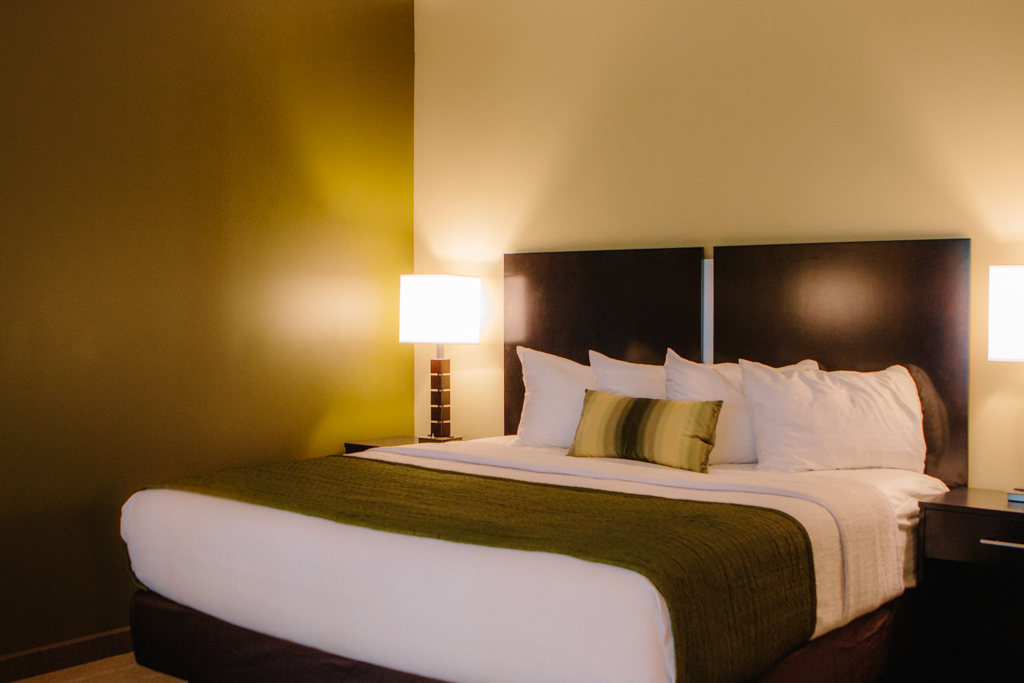
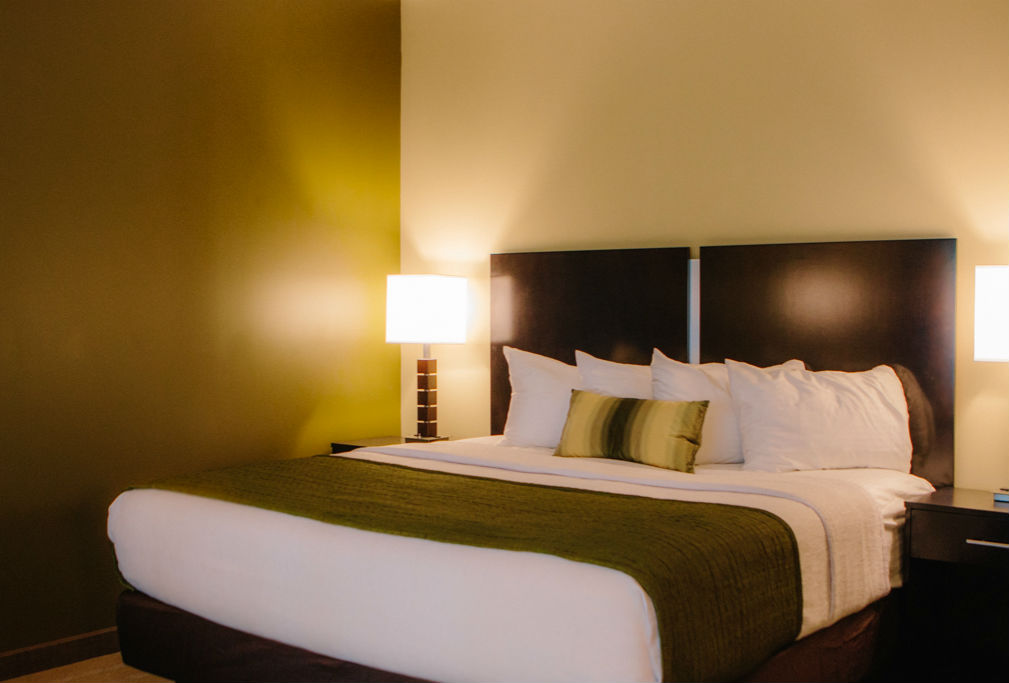
Hotel page updates: remove queen suite, change queen room image, update booking link, make room images same size.

diff --git a/dist/hotel.html b/dist/hotel.html
@@ -1,1 +1,1 @@
-<!DOCTYPE html><html lang=en><meta charset=utf-8><title>Hotel | Franciscan Square</title><meta content="width=device-width,initial-scale=1"name=viewport><link href=http://franciscansquare.com/hotel rel=canonical><link href=favicon.ico rel="shortcut icon"><style>.center-logo{margin-top:-53px}.center-logo img{width:280px;display:block;margin:0 auto;z-index:2}.nav-cta{background-color:#1f2a44}.nav-cta:hover{background-color:#2f4067}.block-center{display:block;margin:0 auto}.list-styled{padding:16px}.list-styled li{list-style-type:square;margin-bottom:8px}.li-divider{border-top:1px solid;width:28px;margin:0 auto;height:16px}@media screen and (max-width:600px){.valign-wrapper{flex-direction:column}.valign-wrapper .col{margin-bottom:16px}}@media screen and (max-width:600px){.valign-wrapper.banner{flex-direction:row}}.container{max-width:2000px}@media only screen and (min-width:993px){.container{width:85%}}@media screen and (max-width:600px){.order-1{order:1}}@media screen and (max-width:600px){.order-2{order:2}}.input-field label{left:0}body{background-color:#fff;display:flex;min-height:100vh;flex-direction:column;-webkit-font-smoothing:antialiased;-moz-osx-font-smoothing:grayscale}main{flex:1 0 auto;min-height:100vh}header{height:122px;margin-bottom:-48px}nav{height:64px;box-shadow:none}nav .brand-logo img{height:64px;margin:16px}nav .button-collapse i{color:rgba(0,0,0,.87)}nav .page-title{line-height:64px;font-size:40px;font-weight:300;margin-left:25px}nav .button-collapse{margin-left:16px}nav .grid-btn,nav .list-btn{cursor:pointer;margin-right:8px}@media screen and (max-width:600px){nav .grid-btn,nav .list-btn{display:none!important}}nav .more-btn{cursor:pointer;margin-right:8px}nav ul li a{color:rgba(0,0,0,.87);font-size:18px}nav ul li a.logout:hover{background-color:transparent}nav .dropdown-content li:hover{background-color:transparent}.side-nav .logo{height:128px}.side-nav .logo a{padding:16px 16px 0 16px;width:100%}.side-nav .logo a:hover{background-color:#fff}.side-nav .logo img{width:100%}.side-nav li a{font-size:18px}.side-nav li a i{height:48px;line-height:48px;float:left;margin-right:8px}.hero-section{background-image:url(../img/hotel-exterior.jpg);background-size:cover;background-attachment:fixed;height:calc(90vh - 64px)}.hero-section .hero-overlay{background:-moz-linear-gradient(top,#fff 0,rgba(255,255,255,0) 100%);background:-webkit-linear-gradient(top,#fff 0,rgba(255,255,255,0) 100%);background:linear-gradient(to bottom,#fff 0,rgba(255,255,255,0) 100%);filter:progid:DXImageTransform.Microsoft.gradient( startColorstr='#ffffff', endColorstr='#00ffffff', GradientType=0 );height:39%}.hero-section h1{background-color:rgba(255,255,255,.75);padding:50px 0}@media screen and (max-width:600px){.hero-section h1{font-size:28px;position:absolute;top:calc(50vh - 30px);width:100%}}#hotel .hero-section{background-image:url(../img/hotel-ent.jpg)}</style><body id=hotel><nav class="black-text white"><div class=nav-wrapper><a href=/ class="brand-logo hide-on-med-and-up"><img src=img/FrSqLogoH.jpg></a><a href=# class=button-collapse data-activates=mobile-demo><i class=material-icons>menu</i></a><ul class="black-text hide-on-med-and-down right"><li><a href=https://www.bestwestern.com/en_US/book/hotels-in-steubenville/best-western-plus-the-inn-at-franciscan-square/propertyCode.36171.html class="btn nav-cta waves-effect waves-light"target=_blank>Book</a><li><a href=/ >Home</a><li><a href=/hotel>Hotel</a><li><a href=/about>About</a><li><a href=/local>Local</a></ul><ul class=side-nav id=mobile-demo><li class=logo><a href=/ id=logo-container><img src=img/FrSqLogoH.jpg class=responsive-img></a><li><a href=/ >Home</a><li><a href=/hotel>Hotel</a><li><a href=/about>About</a><li><a href=/local>Local</a></ul></div></nav><a href=/ class="center-logo hide-on-small-only"><img src=img/FrSqLogoH.jpg></a><main><div class=hero-section><div class=hero-overlay></div><h1 class="center light">The Inn at Franciscan Square</h1></div><div class="section hide-on-med-and-down sub-menu"><ul class=table-of-contents><li><a href=#suites class=slow-nav>Suites</a><li><a href=#rooms class=slow-nav>Rooms</a><li><a href=#amenities class=slow-nav>Amenities</a></ul></div><div class="section scrollspy"id=suites><div class=container><h2 class="center light">Suites</h2><div class=row><div class="col s12 m6"><img src=img/king-suite-1.jpg class="responsive-img materialboxed"><h5 class=center>VIP Suite</h5></div><div class="col s12 m6"><img src=img/queen-double-suite.jpg class="responsive-img materialboxed"><h5 class=center>Queen Suite</h5></div></div></div><div class=row><div class="col s12 m8 offset-m2"><h3 class="center light">VIP Suite Includes</h3><ul class="center light"><li class=li-divider><li class=flow-text>All Room Amenities<li class=flow-text>Two 40in LED Televisions<li class=flow-text>Sofa Bed<li class=flow-text>Wet Bar</ul></div></div></div><div class="section scrollspy"id=rooms><div class=container><h2 class="center light">Rooms</h2><div class=row><div class="col s12 m6"><img src=img/king.jpg class="responsive-img materialboxed"><h5 class=center>One King</h5></div><div class="col s12 m6"><img src=img/queen-single.jpg class="responsive-img materialboxed"><h5 class=center>Two Queen</h5></div></div></div><div class=row><div class="col s12 m8 offset-m2"><h3 class="center light">All Rooms Include</h3><ul class="center light"><li class=li-divider><li class=flow-text>Refrigerator<li class=flow-text>Microwave<li class=flow-text>Coffee Maker<li class=flow-text>Hair Dryer<li class=flow-text>Iron and Ironing Board<li class=flow-text>43in LED Television<li class=flow-text>High Speed WiFi</ul></div></div></div><div class="section scrollspy banner fus-dark-blue valign-wrapper white-text"id=book-online><a href=https://www.bestwestern.com/en_US/book/hotels-in-steubenville/best-western-plus-the-inn-at-franciscan-square/propertyCode.36171.html class=block-center target=_blank><buton class="btn btn-large valign">Book Online</buton></a></div><div class="section scrollspy"id=amenities><div class=container><h2 class="center light">Amenities</h2><div class=row><div class="col s12 m8 offset-m2"><img src=img/fitness.jpg class="responsive-img materialboxed"><h5 class=center>Fitness Center</h5></div></div><div class=row><div class="col s12 m8 offset-m2"><img src=img/meeting-room.jpg class="responsive-img materialboxed"><h5 class=center>8 and 12 Person Meeting Rooms</h5></div></div></div></div><div class=section id=additional-amenities><div class=row><div class="col s12 m8 offset-m2"><h3 class="center light">Additional Amenities</h3><ul class="center light"><li class=li-divider><li class=flow-text>Business Center<li class=flow-text>Outdoor Lounge and Fire Pit<li class=flow-text>Indoor Pool<li class=flow-text>7 Accessible Rooms (5 Queen, 2 King)<li class=flow-text>24-Hour Market<li class=flow-text>24-Hour Guest Laundry<li class=flow-text>High-speed WiFi<li class=flow-text>Free parking<li class=flow-text>Complimentary Breakfast<li class=flow-text>Electric Car Charging Stations</ul></div></div></div><div class=scroll-to-top><i class="material-icons tooltipped"data-delay=50 data-position=right data-tooltip="To Top">arrow_back</i></div></main><footer class=page-footer><div class=container><div class=row><div class="center col m6 s12"><a href=http://www.franciscan.edu/ target=_blank title="Franciscan University of Steubenville"><img src=img/franciscan-logo.png class=responsive-img></a></div><div class="col s12 m6"><h5 class="light white-text">Franciscan Square</h5><address><p class=white-text translate=no typeof=schema:PostalAddress><span property=schema:name>Franciscan Square</span><br><span property=schema:streetAddress>200 Franciscan Square</span><br><span property=schema:addressLocality>Steubenville</span>, <abbr property=schema:addressRegion title=Ohio>OH</abbr> <span property=schema:postalCode>43952</span> <abbr property=schema:addressCountry>USA</abbr><br><a href=tel:+17402820901 class=white-text property=telephone>740.282.0901</a><br></address><div class=social><a href=https://www.facebook.com/franciscansquare/ target=_blank><i class="white-text icon-facebook"></i> </a><a href=https://twitter.com/franciscansqr target=_blank><i class="white-text icon-twitter"></i></a></div></div></div></div><div class=footer-copyright><div class=container>© <span id=copyright-date>2016</span> Franciscan University of Steubenville</div></div></footer><link href="https://fonts.googleapis.com/icon?family=Material+Icons"rel=stylesheet><link href=css/style.min.css rel=stylesheet><script src=https://ajax.googleapis.com/ajax/libs/jquery/2.2.2/jquery.min.js></script><script src=https://cdnjs.cloudflare.com/ajax/libs/materialize/0.97.6/js/materialize.min.js></script><script src=https://cdnjs.cloudflare.com/ajax/libs/babel-core/5.6.15/browser-polyfill.min.js></script><script src=js/app.min.js></script><script>!function(e,t,a,n,c,o,s){e.GoogleAnalyticsObject=c,e[c]=e[c]||function(){(e[c].q=e[c].q||[]).push(arguments)},e[c].l=1*new Date,o=t.createElement(a),s=t.getElementsByTagName(a)[0],o.async=1,o.src=n,s.parentNode.insertBefore(o,s)}(window,document,"script","https://www.google-analytics.com/analytics.js","ga"),ga("create","UA-5819863-13","auto"),ga("send","pageview")</script>
+<!DOCTYPE html><html lang=en><meta charset=utf-8><title>Hotel | Franciscan Square</title><meta content="width=device-width,initial-scale=1"name=viewport><link href=http://franciscansquare.com/hotel rel=canonical><link href=favicon.ico rel="shortcut icon"><style>.center-logo{margin-top:-53px}.center-logo img{width:280px;display:block;margin:0 auto;z-index:2}.nav-cta{background-color:#1f2a44}.nav-cta:hover{background-color:#2f4067}.block-center{display:block;margin:0 auto}.list-styled{padding:16px}.list-styled li{list-style-type:square;margin-bottom:8px}.li-divider{border-top:1px solid;width:28px;margin:0 auto;height:16px}@media screen and (max-width:600px){.valign-wrapper{flex-direction:column}.valign-wrapper .col{margin-bottom:16px}}@media screen and (max-width:600px){.valign-wrapper.banner{flex-direction:row}}.container{max-width:2000px}@media only screen and (min-width:993px){.container{width:85%}}@media screen and (max-width:600px){.order-1{order:1}}@media screen and (max-width:600px){.order-2{order:2}}.input-field label{left:0}body{background-color:#fff;display:flex;min-height:100vh;flex-direction:column;-webkit-font-smoothing:antialiased;-moz-osx-font-smoothing:grayscale}main{flex:1 0 auto;min-height:100vh}header{height:122px;margin-bottom:-48px}nav{height:64px;box-shadow:none}nav .brand-logo img{height:64px;margin:16px}nav .button-collapse i{color:rgba(0,0,0,.87)}nav .page-title{line-height:64px;font-size:40px;font-weight:300;margin-left:25px}nav .button-collapse{margin-left:16px}nav .grid-btn,nav .list-btn{cursor:pointer;margin-right:8px}@media screen and (max-width:600px){nav .grid-btn,nav .list-btn{display:none!important}}nav .more-btn{cursor:pointer;margin-right:8px}nav ul li a{color:rgba(0,0,0,.87);font-size:18px}nav ul li a.logout:hover{background-color:transparent}nav .dropdown-content li:hover{background-color:transparent}.side-nav .logo{height:128px}.side-nav .logo a{padding:16px 16px 0 16px;width:100%}.side-nav .logo a:hover{background-color:#fff}.side-nav .logo img{width:100%}.side-nav li a{font-size:18px}.side-nav li a i{height:48px;line-height:48px;float:left;margin-right:8px}.hero-section{background-image:url(../img/hotel-exterior.jpg);background-size:cover;background-attachment:fixed;height:calc(90vh - 64px)}.hero-section .hero-overlay{background:-moz-linear-gradient(top,#fff 0,rgba(255,255,255,0) 100%);background:-webkit-linear-gradient(top,#fff 0,rgba(255,255,255,0) 100%);background:linear-gradient(to bottom,#fff 0,rgba(255,255,255,0) 100%);filter:progid:DXImageTransform.Microsoft.gradient( startColorstr='#ffffff', endColorstr='#00ffffff', GradientType=0 );height:39%}.hero-section h1{background-color:rgba(255,255,255,.75);padding:50px 0}@media screen and (max-width:600px){.hero-section h1{font-size:28px;position:absolute;top:calc(50vh - 30px);width:100%}}#hotel .hero-section{background-image:url(../img/hotel-ent.jpg)}</style><body id=hotel><nav class="black-text white"><div class=nav-wrapper><a href=/ class="brand-logo hide-on-med-and-up"><img src=img/FrSqLogoH.jpg></a><a href=# class=button-collapse data-activates=mobile-demo><i class=material-icons>menu</i></a><ul class="black-text hide-on-med-and-down right"><li><a href="https://www.bestwestern.com/en_US/book/hotel-details.36171.html?ssob=IN3617198G&rateCode=3R&cid=IN3617198G:3rdparty:franciscan:accommodations"class="btn nav-cta waves-effect waves-light"target=_blank title="Book Online with Special Franciscan University Rate">Book</a><li><a href=/ >Home</a><li><a href=/hotel>Hotel</a><li><a href=/about>About</a><li><a href=/local>Local</a></ul><ul class=side-nav id=mobile-demo><li class=logo><a href=/ id=logo-container><img src=img/FrSqLogoH.jpg class=responsive-img></a><li><a href=/ >Home</a><li><a href=/hotel>Hotel</a><li><a href=/about>About</a><li><a href=/local>Local</a></ul></div></nav><a href=/ class="center-logo hide-on-small-only"><img src=img/FrSqLogoH.jpg></a><main><div class=hero-section><div class=hero-overlay></div><h1 class="center light">The Inn at Franciscan Square</h1></div><div class="section hide-on-med-and-down sub-menu"><ul class=table-of-contents><li><a href=#suites class=slow-nav>Suites</a><li><a href=#rooms class=slow-nav>Rooms</a><li><a href=#amenities class=slow-nav>Amenities</a></ul></div><div class="section scrollspy"id=suites><div class=container><h2 class="center light">Suites</h2><div class=row><div class="col s12 m8 offset-m2"><img src=img/king-suite-1.jpg class="responsive-img materialboxed"><h5 class=center>VIP Suite</h5></div></div></div><div class=row><div class="col s12 m8 offset-m2"><h3 class="center light">VIP Suite Includes</h3><ul class="center light"><li class=li-divider><li class=flow-text>All Room Amenities<li class=flow-text>Two 40in LED Televisions<li class=flow-text>Sofa<li class=flow-text>Wet Bar</ul></div></div></div><div class="section scrollspy"id=rooms><div class=container><h2 class="center light">Rooms</h2><div class=row><div class="col s12 m6"><img src=img/king.jpg class="responsive-img materialboxed"><h5 class=center>One King</h5></div><div class="col s12 m6"><img src=img/queen-double-suite.jpg class="responsive-img materialboxed"><h5 class=center>Two Queen</h5></div></div></div><div class=row><div class="col s12 m8 offset-m2"><h3 class="center light">All Rooms Include</h3><ul class="center light"><li class=li-divider><li class=flow-text>Refrigerator<li class=flow-text>Microwave<li class=flow-text>Coffee Maker<li class=flow-text>Hair Dryer<li class=flow-text>Iron and Ironing Board<li class=flow-text>43in LED Television<li class=flow-text>High Speed WiFi</ul></div></div></div><div class="section scrollspy banner fus-dark-blue valign-wrapper white-text"id=book-online><div class="center block-center valign"><h3 class=light style=margin-top:0>Special Rate</h3><a href="https://www.bestwestern.com/en_US/book/hotel-details.36171.html?ssob=IN3617198G&rateCode=3R&cid=IN3617198G:3rdparty:franciscan:accommodations"class=block-center target=_blank title="Book Online with Special Franciscan University Rate"><buton class="btn btn-large">Book Online</buton></a></div></div><div class="section scrollspy"id=amenities><div class=container><h2 class="center light">Amenities</h2><div class=row><div class="col s12 m8 offset-m2"><img src=img/fitness.jpg class="responsive-img materialboxed"><h5 class=center>Fitness Center</h5></div></div><div class=row><div class="col s12 m8 offset-m2"><img src=img/meeting-room.jpg class="responsive-img materialboxed"><h5 class=center>8 and 12 Person Meeting Rooms</h5></div></div></div></div><div class=section id=additional-amenities><div class=row><div class="col s12 m8 offset-m2"><h3 class="center light">Additional Amenities</h3><ul class="center light"><li class=li-divider><li class=flow-text>Business Center<li class=flow-text>Outdoor Lounge and Fire Pit<li class=flow-text>Indoor Pool<li class=flow-text>7 Accessible Rooms (5 Queen, 2 King)<li class=flow-text>24-Hour Market<li class=flow-text>24-Hour Guest Laundry<li class=flow-text>High-speed WiFi<li class=flow-text>Free parking<li class=flow-text>Complimentary Breakfast<li class=flow-text>Electric Car Charging Stations</ul></div></div></div><div class=scroll-to-top><i class="material-icons tooltipped"data-delay=50 data-position=right data-tooltip="To Top">arrow_back</i></div></main><footer class=page-footer><div class=container><div class=row><div class="center col m6 s12"><a href=http://www.franciscan.edu/ target=_blank title="Franciscan University of Steubenville"><img src=img/franciscan-logo.png class=responsive-img></a></div><div class="col s12 m6"><h5 class="light white-text">Franciscan Square</h5><address><p class=white-text translate=no typeof=schema:PostalAddress><span property=schema:name>Franciscan Square</span><br><span property=schema:streetAddress>200 Franciscan Square</span><br><span property=schema:addressLocality>Steubenville</span>, <abbr property=schema:addressRegion title=Ohio>OH</abbr> <span property=schema:postalCode>43952</span> <abbr property=schema:addressCountry>USA</abbr><br><a href=tel:+17402820901 class=white-text property=telephone>740.282.0901</a><br></address><div class=social><a href=https://www.facebook.com/franciscansquare/ target=_blank><i class="white-text icon-facebook"></i> </a><a href=https://twitter.com/franciscansqr target=_blank><i class="white-text icon-twitter"></i></a></div></div></div></div><div class=footer-copyright><div class=container>© <span id=copyright-date>2016</span> Franciscan University of Steubenville</div></div></footer><link href="https://fonts.googleapis.com/icon?family=Material+Icons"rel=stylesheet><link href=css/style.min.css rel=stylesheet><script src=https://ajax.googleapis.com/ajax/libs/jquery/2.2.2/jquery.min.js></script><script src=https://cdnjs.cloudflare.com/ajax/libs/materialize/0.97.6/js/materialize.min.js></script><script src=https://cdnjs.cloudflare.com/ajax/libs/babel-core/5.6.15/browser-polyfill.min.js></script><script src=js/app.min.js></script><script>!function(e,t,a,n,c,o,s){e.GoogleAnalyticsObject=c,e[c]=e[c]||function(){(e[c].q=e[c].q||[]).push(arguments)},e[c].l=1*new Date,o=t.createElement(a),s=t.getElementsByTagName(a)[0],o.async=1,o.src=n,s.parentNode.insertBefore(o,s)}(window,document,"script","https://www.google-analytics.com/analytics.js","ga"),ga("create","UA-5819863-13","auto"),ga("send","pageview")</script>

diff --git a/app/hotel.html b/app/hotel.html
@@ -166,7 +166,7 @@
        <a href="/" class="brand-logo hide-on-med-and-up"><img src="img/FrSqLogoH.jpg" /></a>
        <a href="#" data-activates="mobile-demo" class="button-collapse"><i class="material-icons">menu</i></a>
        <ul class="right hide-on-med-and-down black-text">
-         <li><a href="https://www.bestwestern.com/en_US/book/hotels-in-steubenville/best-western-plus-the-inn-at-franciscan-square/propertyCode.36171.html" target="_blank" class="btn nav-cta waves-effect waves-light">Book</a></li>
+         <li><a href="https://www.bestwestern.com/en_US/book/hotel-details.36171.html?ssob=IN3617198G&rateCode=3R&cid=IN3617198G:3rdparty:franciscan:accommodations" target="_blank" title="Book Online with Special Franciscan University Rate" class="btn nav-cta waves-effect waves-light">Book</a></li>
          <li><a href="/">Home</a></li>
          <li><a href="/hotel">Hotel</a></li>
          <!-- <li><a href="/dining">Dining</a></li>
@@ -206,16 +206,10 @@
         <div class="container">
           <h2 class="center light">Suites</h2>
           <div class="row">
-            <div class="col s12 m6">
+            <div class="col s12 m8 offset-m2">
               <img class="responsive-img materialboxed" src="img/king-suite-1.jpg" />
               <h5 class="center">
                 VIP Suite
-              </h5>
-            </div>
-            <div class="col s12 m6">
-              <img class="responsive-img materialboxed" src="img/queen-double-suite.jpg" />
-              <h5 class="center">
-                Queen Suite
               </h5>
             </div>
           </div>
@@ -229,7 +223,7 @@
               <li class="li-divider"></li>
               <li class="flow-text">All Room Amenities</li>
               <li class="flow-text">Two 40in LED Televisions</li>
-              <li class="flow-text">Sofa Bed</li>
+              <li class="flow-text">Sofa</li>
               <li class="flow-text">Wet Bar</li>
             </ul>
           </div>
@@ -246,7 +240,7 @@
               </h5>
             </div>
             <div class="col s12 m6">
-              <img class="responsive-img materialboxed" src="img/queen-single.jpg" />
+              <img class="responsive-img materialboxed" src="img/queen-double-suite.jpg" />
               <h5 class="center">
                 Two Queen
               </h5>
@@ -272,7 +266,11 @@
         </div>
       </div>
       <div class="section scrollspy banner fus-dark-blue white-text valign-wrapper" id="book-online">
-          <a class="block-center" href="https://www.bestwestern.com/en_US/book/hotels-in-steubenville/best-western-plus-the-inn-at-franciscan-square/propertyCode.36171.html" target="_blank"><buton class="btn btn-large valign">Book Online</buton></a>
+        <div class="valign block-center center">
+          <h3 style="margin-top: 0px" class="light">Special Rate</h3>
+            <a class="block-center" href="https://www.bestwestern.com/en_US/book/hotel-details.36171.html?ssob=IN3617198G&rateCode=3R&cid=IN3617198G:3rdparty:franciscan:accommodations" target="_blank" title="Book Online with Special Franciscan University Rate"><buton class="btn btn-large">Book Online</buton></a>
+        </div>
+
       </div>
       <div class="section scrollspy" id="amenities">
         <div class="container">
